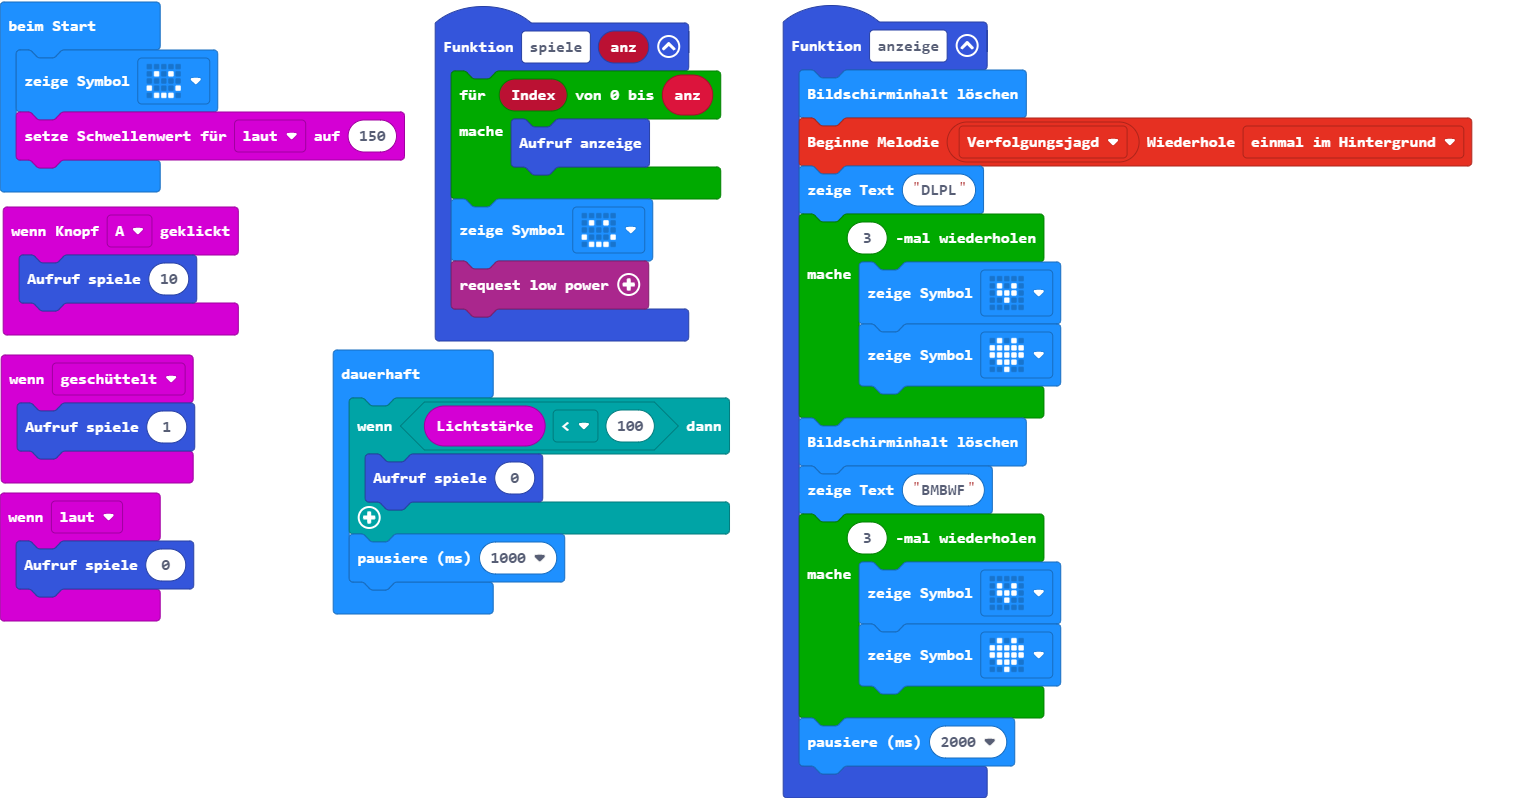
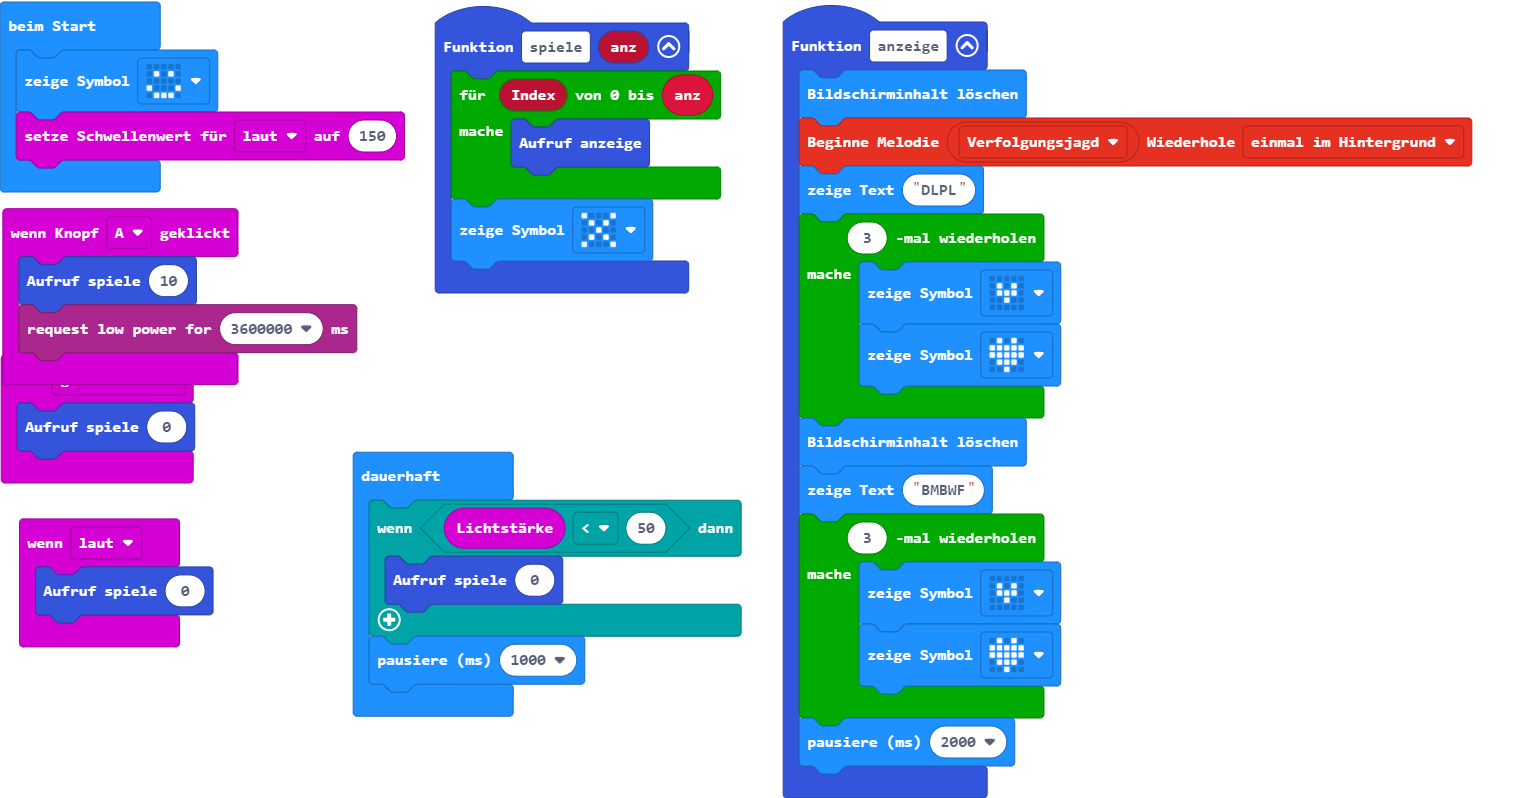
Aktualisiere main.blocks, main.ts

Changed region(s): [[0.0, 0.2406, 0.4934, 0.9023], [0.0, 0.6015, 0.1542, 0.812]]

diff --git a/main.ts b/main.ts
@@ -2,17 +2,17 @@ function spiele (anz: number) {
     for (let Index = 0; Index <= anz; Index++) {
         anzeige()
     }
-    basic.showIcon(IconNames.Happy)
-    power.lowPowerRequest()
+    basic.showIcon(IconNames.No)
 }
 input.onSound(DetectedSound.Loud, function () {
     spiele(0)
 })
 input.onButtonPressed(Button.A, function () {
     spiele(10)
+    power.lowPowerPause(3600000)
 })
 input.onGesture(Gesture.Shake, function () {
-    spiele(1)
+    spiele(0)
 })
 function anzeige () {
     basic.clearScreen()
@@ -33,7 +33,7 @@ function anzeige () {
 basic.showIcon(IconNames.Happy)
 input.setSoundThreshold(SoundThreshold.Loud, 150)
 basic.forever(function () {
-    if (input.lightLevel() < 100) {
+    if (input.lightLevel() < 50) {
         spiele(0)
     }
     basic.pause(1000)
